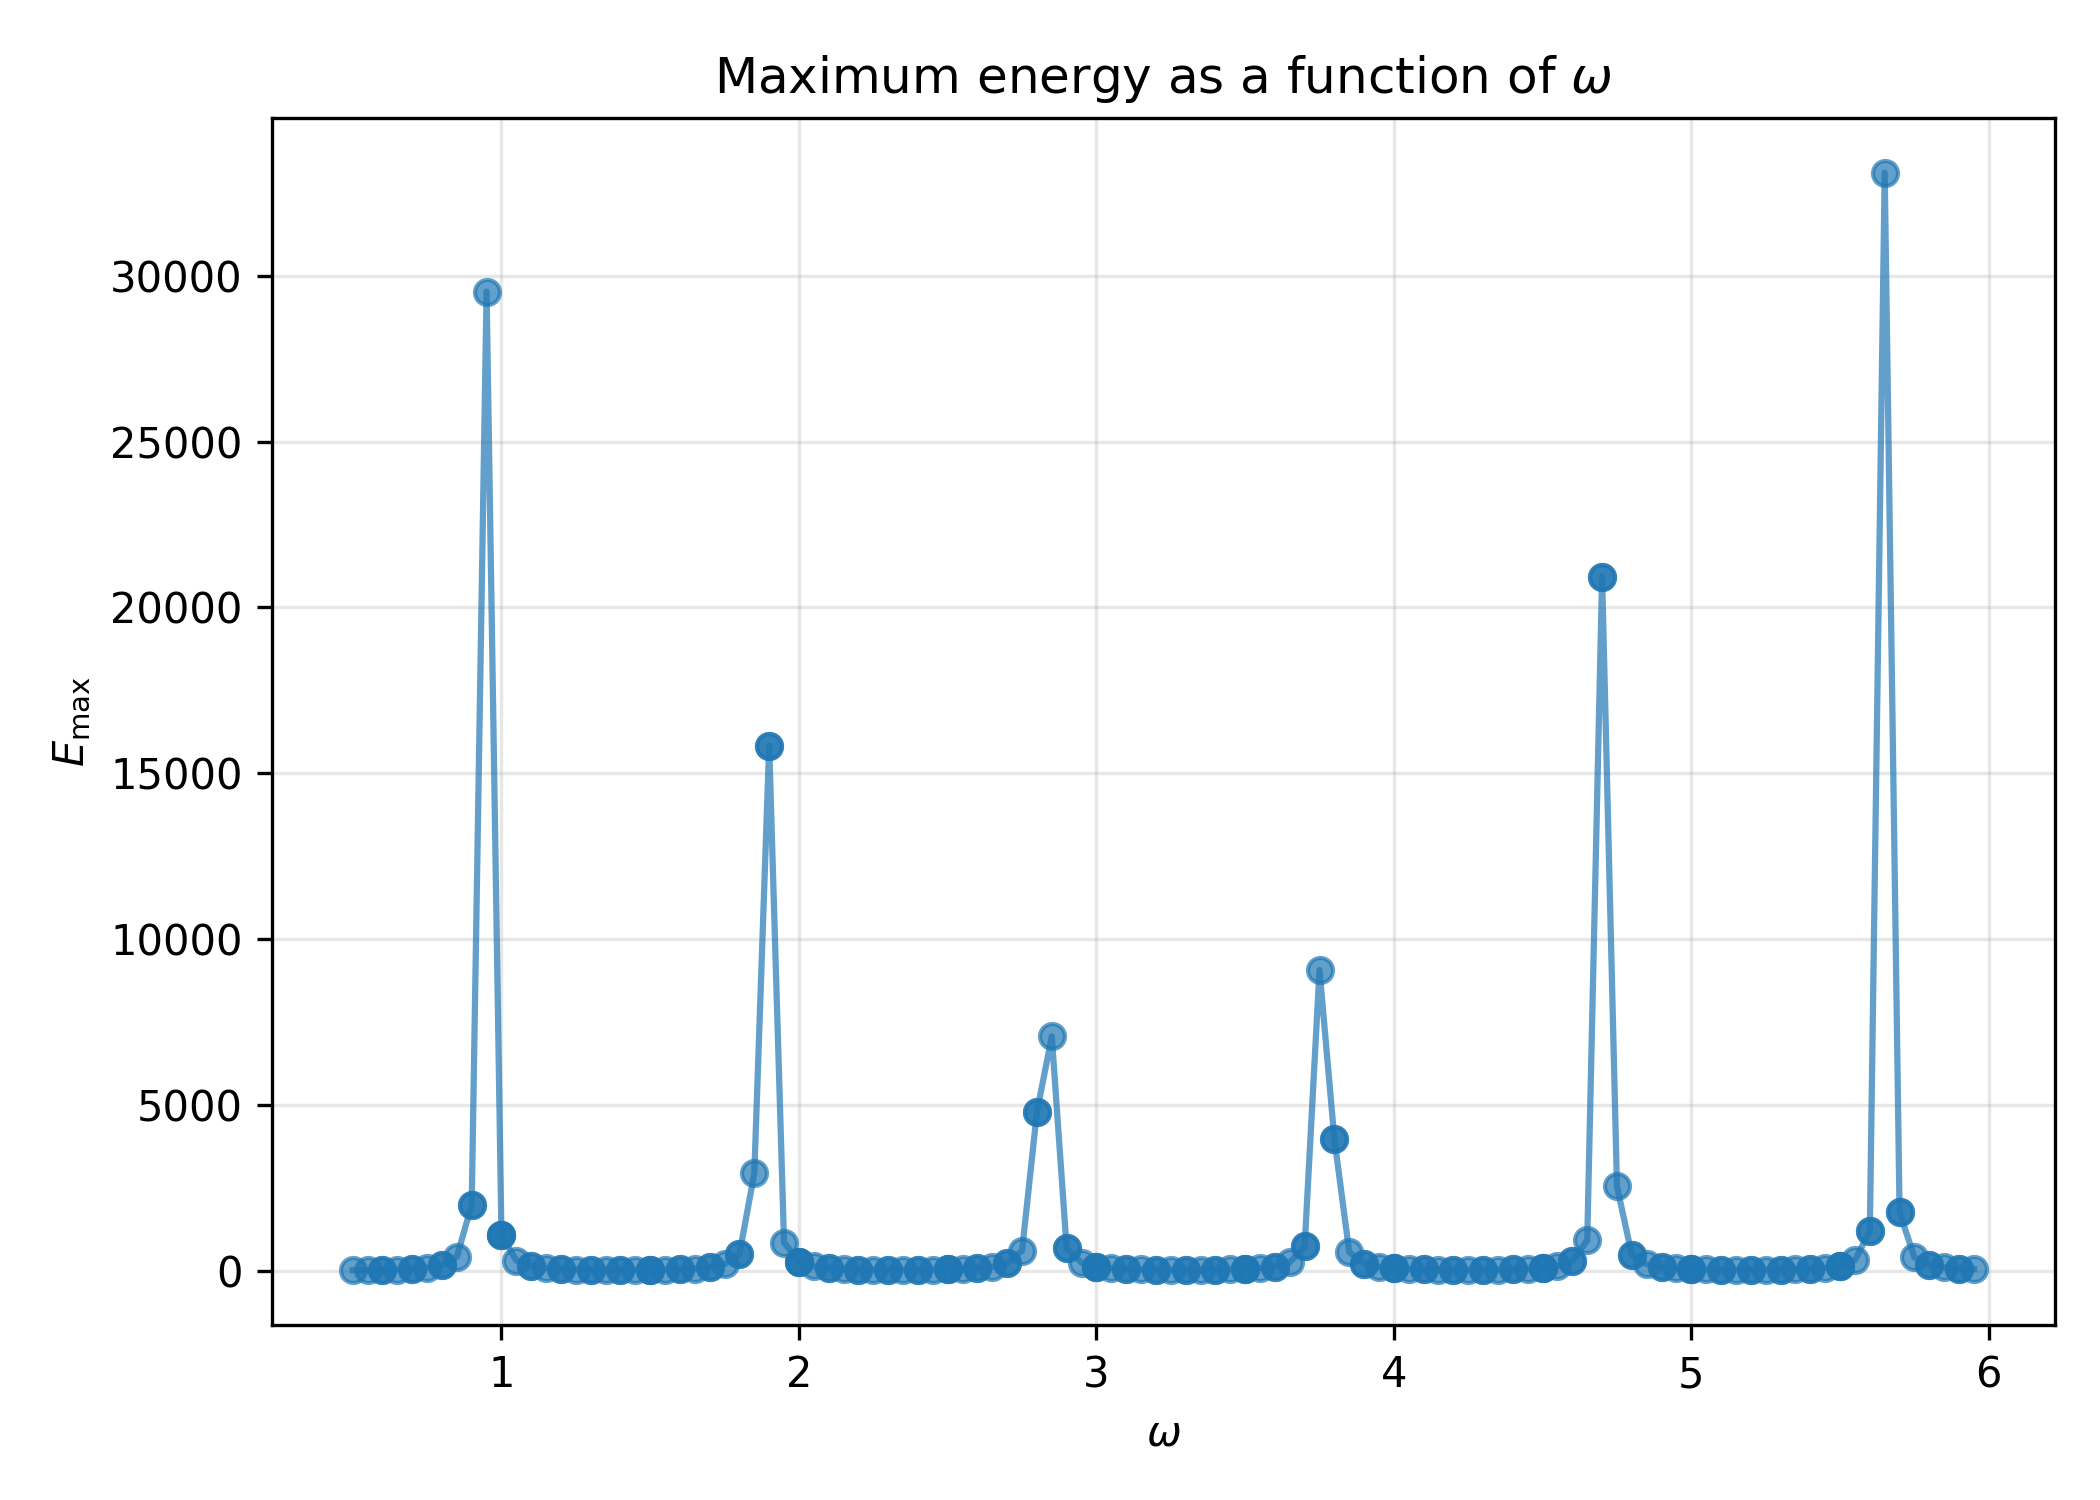
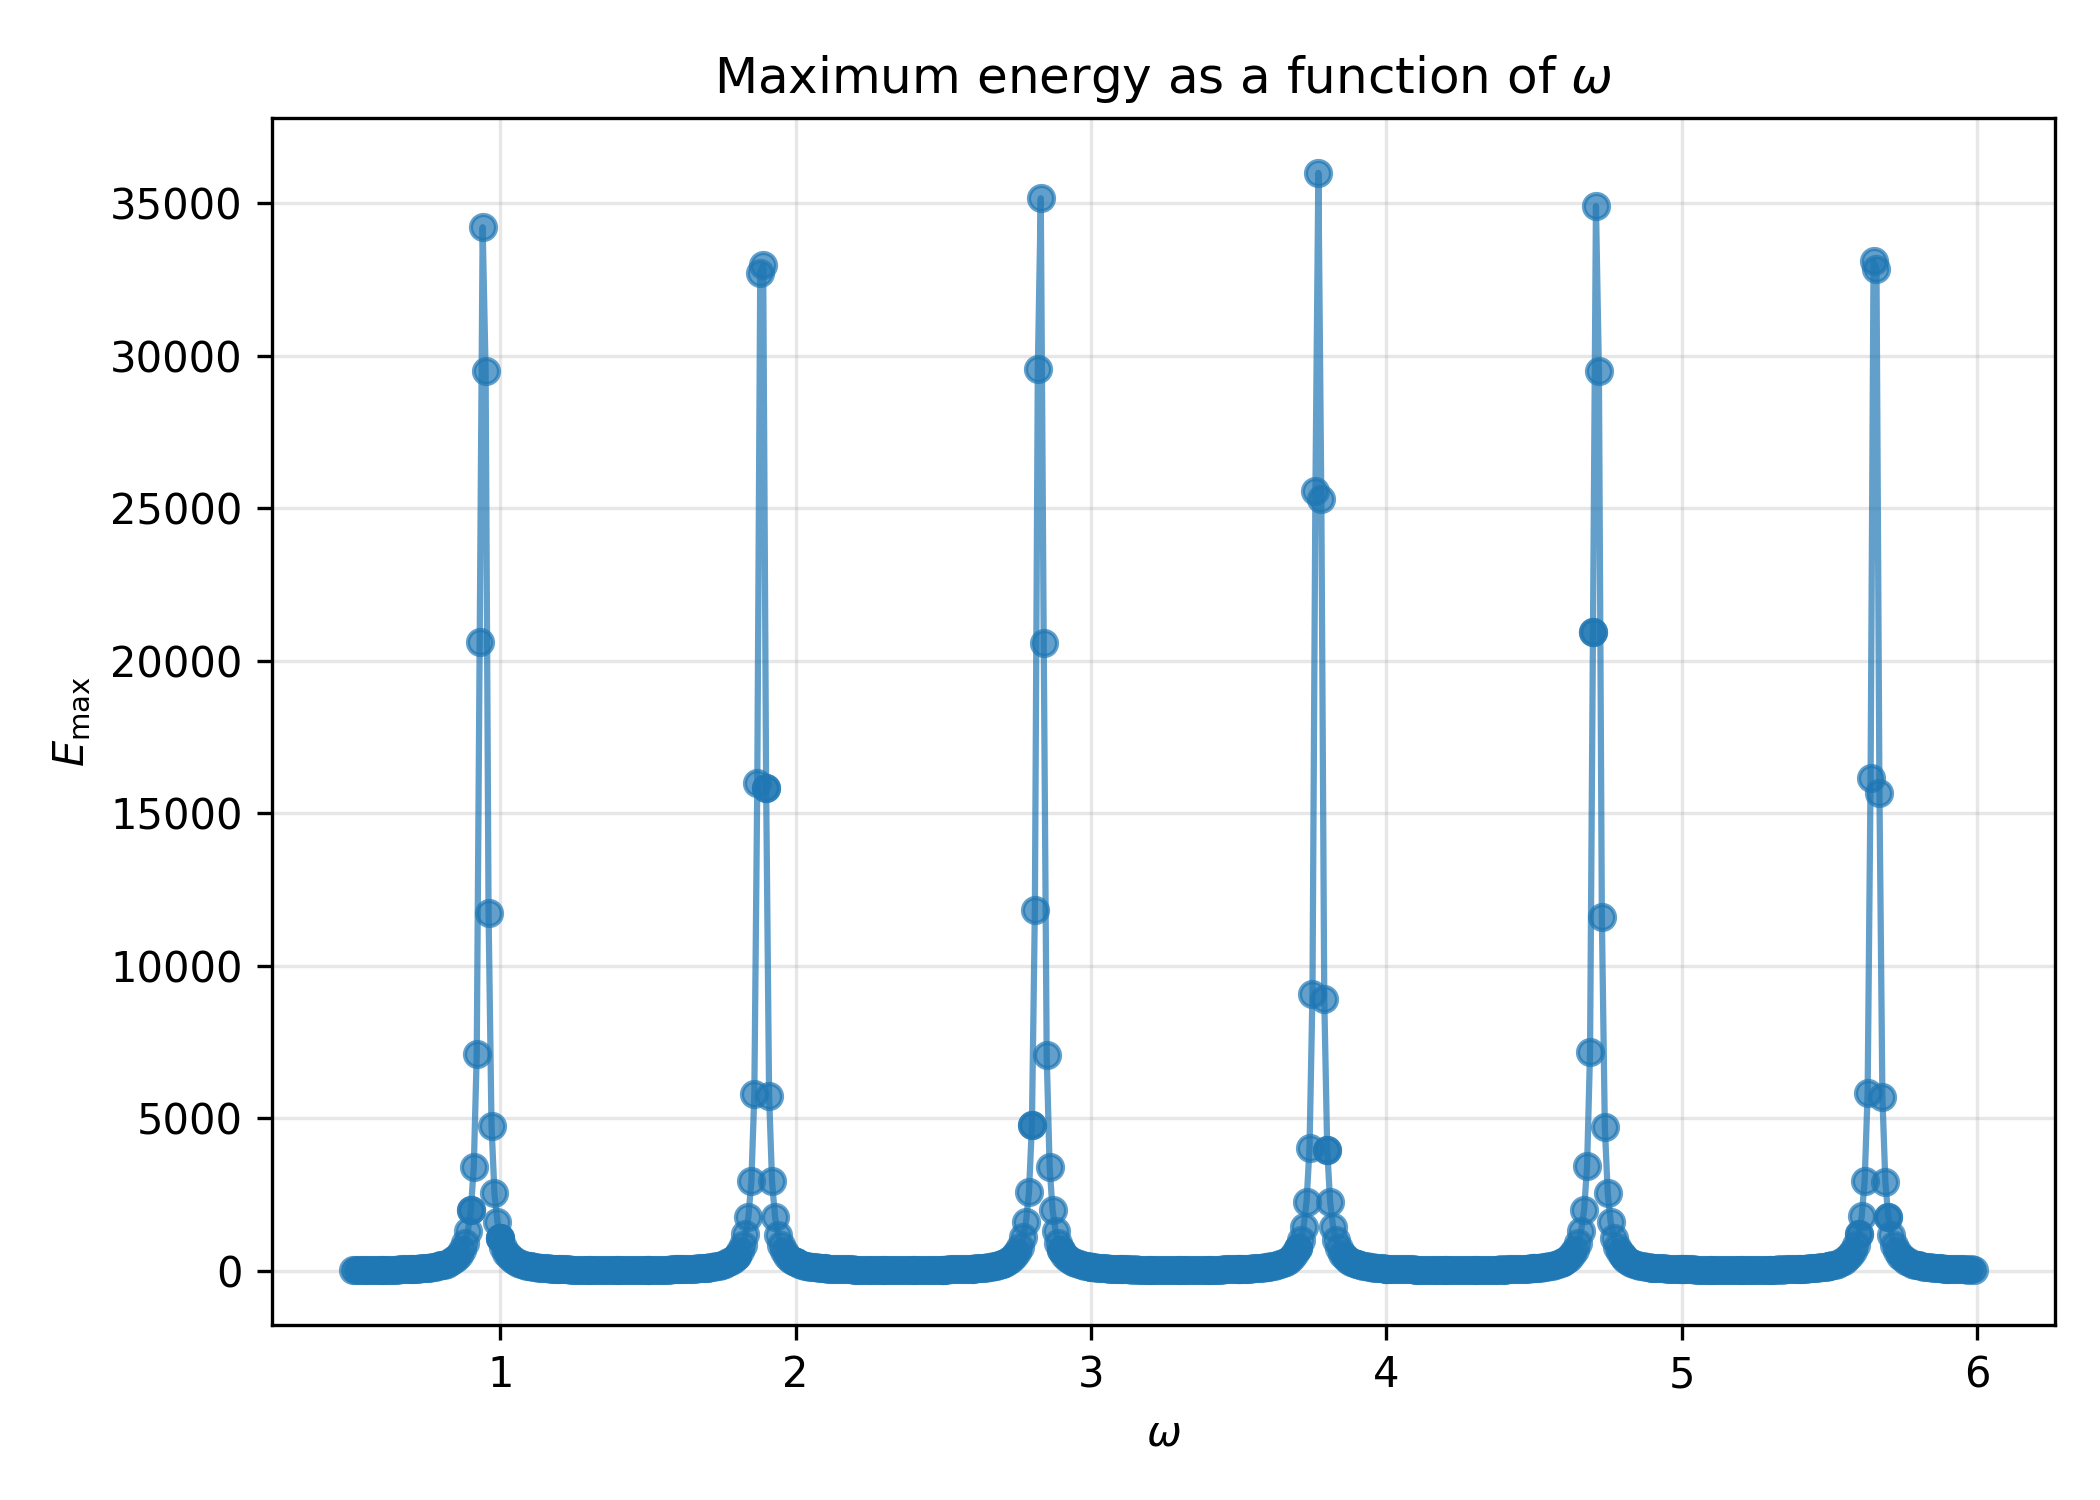
Everything working 23/05

diff --git a/student/engine.cpp b/student/engine.cpp
@@ -157,9 +157,16 @@ int main(int argc, char* argv[])
             if (equation_type == "A") {
                 fnext[i]=2*(1-beta2[i])*fnow[i]+beta2[i]*(fnow[i+1]+fnow[i-1])-fpast[i]; // TODO: schéma A (puis B ou C si equation_type le demande)
             } else if (equation_type == "B") {
-                fnext[i]=2*fnow[i]-fpast[i]+beta2[i]*(fnow[i+1]-2*fnow[i]+fnow[i-1])+pow(dt,2)/(2*pow(h0[i],2))*(sqrt(vel2[i])*(sqrt(vel2[i+1])-sqrt(vel2[i-1]))*(fnow[i+1]-fnow[i-1])); // TODO: schéma B
-            } else if (equation_type == "C") {
-                fnext[i]=2*fnow[i]-fpast[i]+pow(dt,2)/(pow(h0[i],2))*(fnow[i+1]*vel2[i+1]-2*fnow[i]*vel2[i]+fnow[i-1]*vel2[i-1] ); // TODO: schéma C
+                fnext[i]=2*fnow[i]-fpast[i]+beta2[i]*(fnow[i+1]-2*fnow[i]+fnow[i-1])+pow(dt,2)/(4*pow(h0[i],2))*(((vel2[i+1])-(vel2[i-1]))*(fnow[i+1]-fnow[i-1])); // TODO: schéma B
+            } else if (equation_type == "B_prime") {
+                vector<double> half_vel_2(N, 0.0);
+                half_vel_2[i] = (vel2[i+1] - vel2[i])/ 2;
+                vector<double> half_vel_2_neg(N, 0.0);
+                half_vel_2_neg[i] = (vel2[i] - vel2[i-1])/ 2;
+                fnext[i]=2*fnow[i]-fpast[i]+half_vel_2[i]+pow(dt,2)/(pow(h0[i],2))*(half_vel_2[i]*(fnow[i+1]-fnow[i]) - half_vel_2_neg[i]*(fnow[i]-fnow[i-1])); 
+            }
+            else if (equation_type == "C") {
+                fnext[i]=2*fnow[i]-fpast[i]+pow(dt,2)/(pow(h0[i],2))*(fnow[i]*(vel2[i+1]-2*vel2[i]+vel2[i-1])+(vel2[i+1]-vel2[i-1])/2*(fnow[i+1]-fnow[i-1]))+beta2[i]*(fnow[i+1]-2*fnow[i]+fnow[i-1]); // TODO: schéma C
             } else {
                 cerr << "Type d'équation invalide: " << equation_type << endl;
                 return 1;

diff --git a/student/parameterscan_om.py b/student/parameterscan_om.py
@@ -32,7 +32,7 @@ input_parameters = {
 }
 
 paramstr = 'om'
-variable_array=np.arange(0.5,6,0.05)
+variable_array=np.arange(0.5,6,0.01)
 
 
 